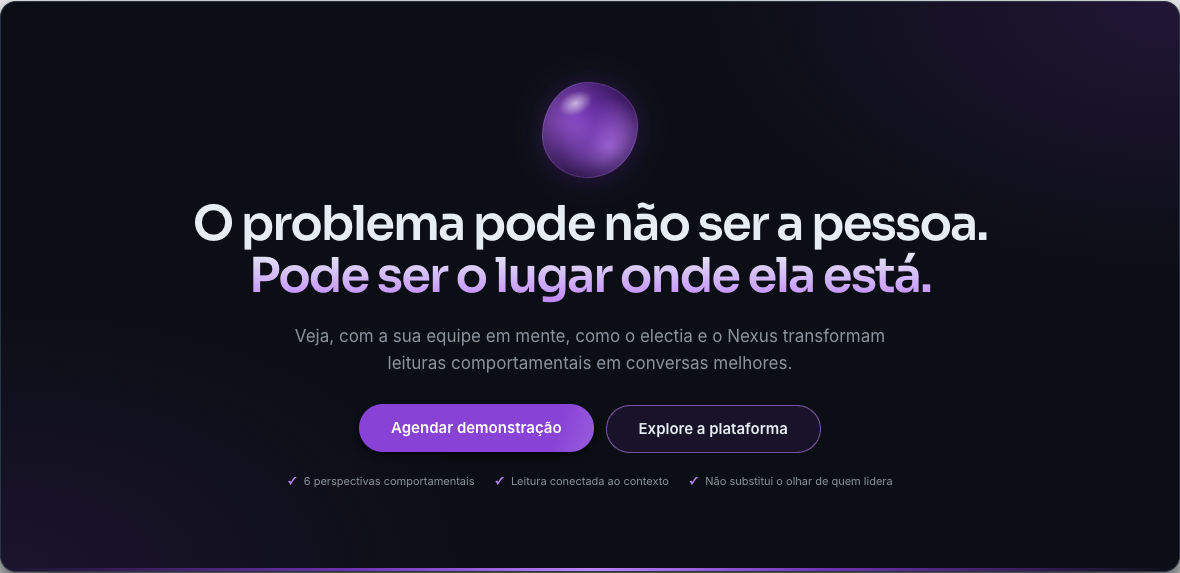
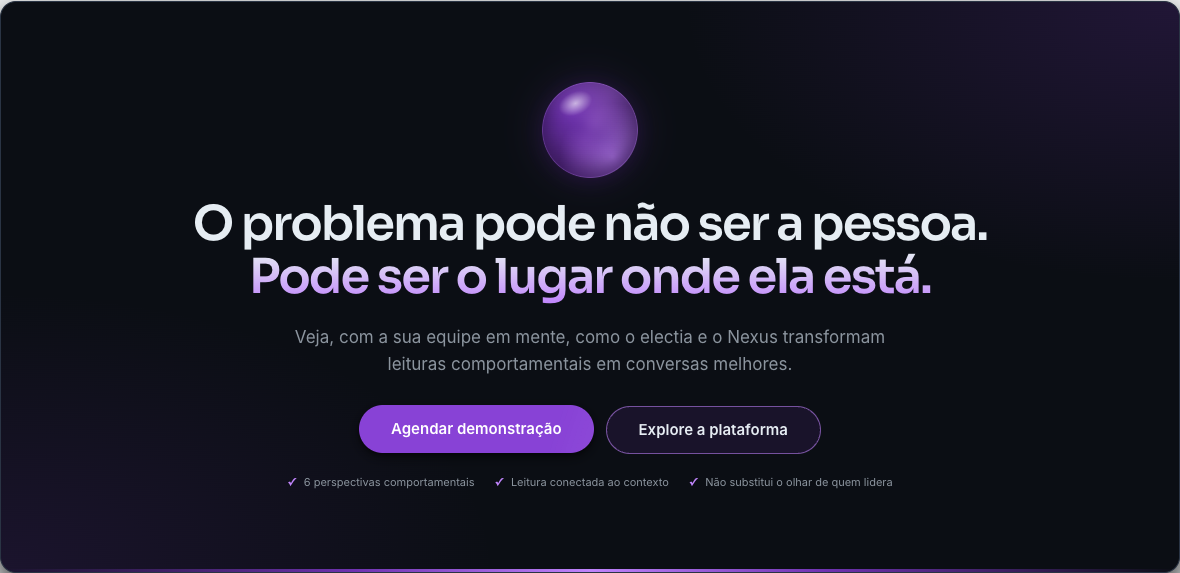
fix(electia): protótipo — reflow em 320, gaveta rolável, contraste AA e reflexo sutil
Achados do Revisor na #80: navbar cabe em 320 px (scrollWidth 325 → 320)
sem perder marca nem controles; gaveta com cabeçalho fixo e corpo rolável
(paisagem 667x375 alcança todas as ações por roda e Tab); textos de apoio
em --text-secondary (escuro 4,2 → 6,28:1); reflexo do .btn-sheen com pico
de 8 % (pior quadro 3,34 → 4,82:1). Capturas atualizadas.

diff --git a/brands/electia/previews/prototypes/electia-landing-talio-2026-10-05.html b/brands/electia/previews/prototypes/electia-landing-talio-2026-10-05.html
@@ -32,6 +32,10 @@
        3:1 de elemento não textual). Aqui o anel usa a tinta de texto do
        accent, medida em AA nos dois temas. Achado para levar ao DS. */
     :root, [data-theme] { --focus-ring-color: var(--accent-primary-text); }
+    /* Achado para o DS: --text-muted do tema escuro (#6e7681 sobre #0b0e14)
+       dá 4,2:1 — não passa AA (4,5:1) para texto pequeno. Os textos
+       auxiliares deste protótipo (rótulos da gaveta, aviso do Nexus) usam
+       --text-secondary, que passa nos dois temas. */
     :root {
       --landing-page: 1180px;
       --landing-gutter: var(--space-4);
@@ -105,17 +109,26 @@
     }
     .header-float-drawer {
       position: fixed; inset-block: 0; inset-inline-end: 0; z-index: 51;
-      display: flex; flex-direction: column; gap: var(--space-6);
+      display: flex; flex-direction: column; gap: var(--space-4);
       inline-size: min(320px, 86vw);
-      padding: calc(var(--space-4) + env(safe-area-inset-top)) var(--space-5) calc(var(--space-6) + env(safe-area-inset-bottom));
+      padding-block-start: calc(var(--space-4) + env(safe-area-inset-top));
       background: var(--bg-base); border-inline-start: 1px solid var(--border-default); box-shadow: var(--elevation-4);
       transform: translateX(100%); visibility: hidden;
       transition: transform 280ms var(--ease-brand), visibility 0s linear 280ms;
     }
     .header-float-drawer[data-open] { transform: none; visibility: visible; transition: transform 280ms var(--ease-brand); }
     .header-float-scrim[data-open] { opacity: 1; visibility: visible; transition: opacity var(--transition-base); }
-    .header-float-drawer-head { display: flex; align-items: center; justify-content: space-between; }
-    .header-float-drawer-label { color: var(--text-muted); font-size: var(--text-xs); font-weight: var(--font-semibold); letter-spacing: 0.12em; text-transform: uppercase; }
+    /* Cabeçalho fixo (Fechar sempre à vista); só o corpo rola. Em paisagem
+       baixa (667×375) o conteúdo passa da altura e precisa de rolagem. */
+    .header-float-drawer-head { flex: none; display: flex; align-items: center; justify-content: space-between; padding-inline: var(--space-5); }
+    .header-float-drawer-body {
+      flex: 1 1 auto; min-block-size: 0;
+      display: flex; flex-direction: column; gap: var(--space-6);
+      overflow-y: auto; overscroll-behavior: contain;
+      padding: var(--space-2) var(--space-5) calc(var(--space-6) + env(safe-area-inset-bottom));
+      scroll-padding-block: var(--space-4);
+    }
+    .header-float-drawer-label { color: var(--text-secondary); font-size: var(--text-xs); font-weight: var(--font-semibold); letter-spacing: 0.12em; text-transform: uppercase; }
     .header-float-drawer nav { display: grid; }
     .header-float-drawer nav a {
       display: flex; align-items: center; min-block-size: 48px; border-bottom: 1px solid var(--border-subtle);
@@ -131,6 +144,15 @@
       .header-float-menu { display: inline-grid; }
       .header-float-icon { inline-size: 44px; block-size: 44px; }
     }
+    /* Abaixo de 360 px marca + dois controles de 44 px não cabiam (325 px em
+       320). Pílula mais larga, respiro menor e o "by emprega+" sai só da
+       vista: o nome acessível do link (aria-label) continua com ele. */
+    @media (max-width: 359.98px) {
+      .header-float { inline-size: calc(100% - 2 * var(--space-2)); }
+      .header-float-bar { gap: var(--space-2); padding-inline: var(--space-3) var(--space-1); }
+      .header-float-actions { gap: var(--space-1); }
+      .header-float .header-float-brand span:not(.brand-orb) { display: none; }
+    }
 
     /* ════════════════════════════════════════════════════════════════════
        CANDIDATO components/btn-sheen.css
@@ -142,7 +164,10 @@
     .btn-sheen::after {
       content: ''; position: absolute; inset-block: 0; inset-inline-start: 0; z-index: -1;
       inline-size: 45%;
-      background: linear-gradient(90deg, transparent, color-mix(in srgb, var(--text-on-color) 30%, transparent), transparent);
+      /* Pico de 8 %: o reflexo passa sob o rótulo, então o fundo mais claro
+         que ele cria ainda precisa de 4,5:1 com o texto. Medido quadro a
+         quadro sobre o pior fundo (hover #8842d6): 30 % dava 3,34:1. */
+      background: linear-gradient(90deg, transparent, color-mix(in srgb, var(--text-on-color) 8%, transparent), transparent);
       transform: translateX(-140%) skewX(-18deg); opacity: 0; pointer-events: none;
     }
     .btn-sheen:hover::after, .btn-sheen:focus-visible::after { animation: btn-sheen-pass 700ms var(--ease-sheen) 1 both; }
@@ -264,7 +289,7 @@
     .copilot-msg-user p { max-inline-size: 80%; background: var(--accent-primary); color: var(--text-inverse); border-end-end-radius: var(--radius-sm); }
     .copilot-msg-ai p { background: var(--bg-surface-2); color: var(--text-primary); border-end-start-radius: var(--radius-sm); }
     .copilot-msg-ai strong { display: block; margin-block-end: var(--space-1); color: var(--accent-primary-text); font: 600 var(--text-xs) var(--font-heading); }
-    .copilot-foot { margin-block-start: var(--space-5); color: var(--text-muted); font-size: var(--text-xs); text-align: center; }
+    .copilot-foot { margin-block-start: var(--space-5); color: var(--text-secondary); font-size: var(--text-xs); text-align: center; }
     .copilot [hidden] { display: none; }
     .copilot-ask { display: flex; justify-content: flex-end; margin-block-start: var(--space-3); }
     .copilot-ask .btn { color: var(--accent-primary-text); }
@@ -335,6 +360,7 @@
       <span class="header-float-drawer-label">Navegue</span>
       <button class="header-float-icon" type="button" data-menu-close aria-label="Fechar menu"><span aria-hidden="true">✕</span></button>
     </div>
+    <div class="header-float-drawer-body">
     <nav aria-label="Navegação principal (móvel)">
       <a href="#plataforma">Plataforma</a>
       <a href="#nexus">Nexus</a>
@@ -346,6 +372,7 @@
       <a class="btn btn-ghost" href="#login">Login</a>
       <a class="btn btn-secondary" href="#cta-final">Agendar demonstração</a>
       <a class="btn btn-primary" href="#cta-final">Conheça o electia</a>
+    </div>
     </div>
   </div>
   <div class="header-float-scrim" data-menu-scrim></div>
